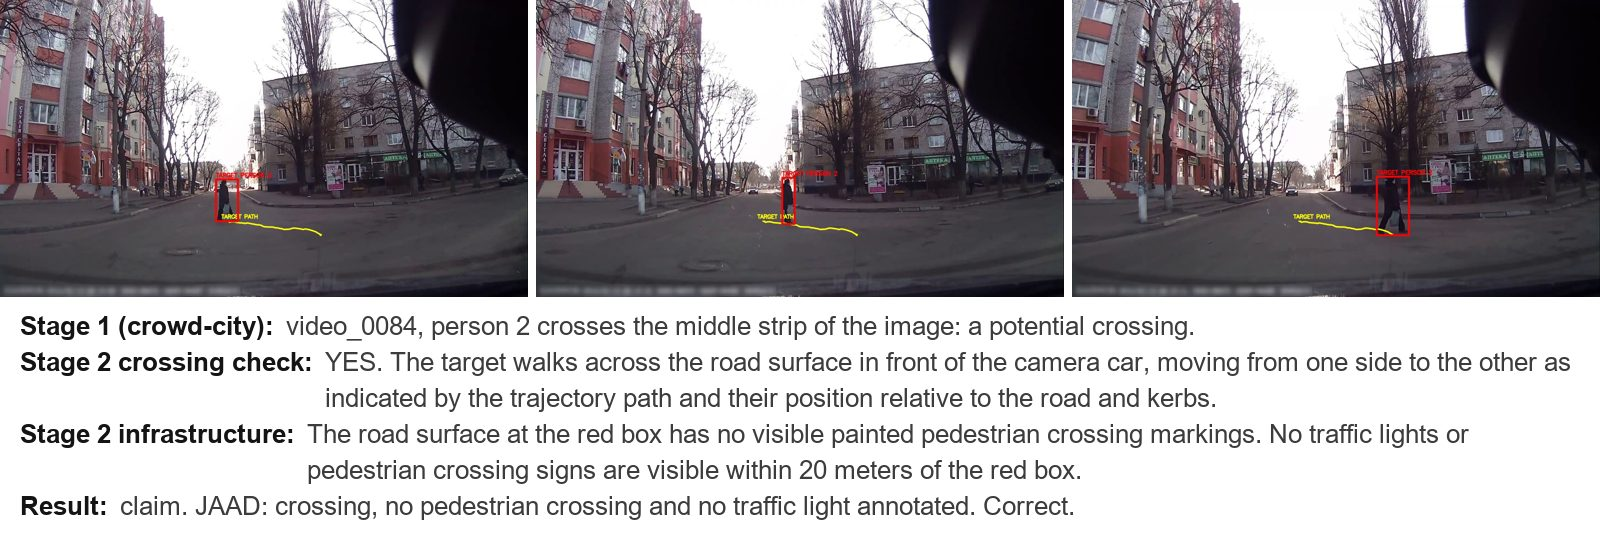
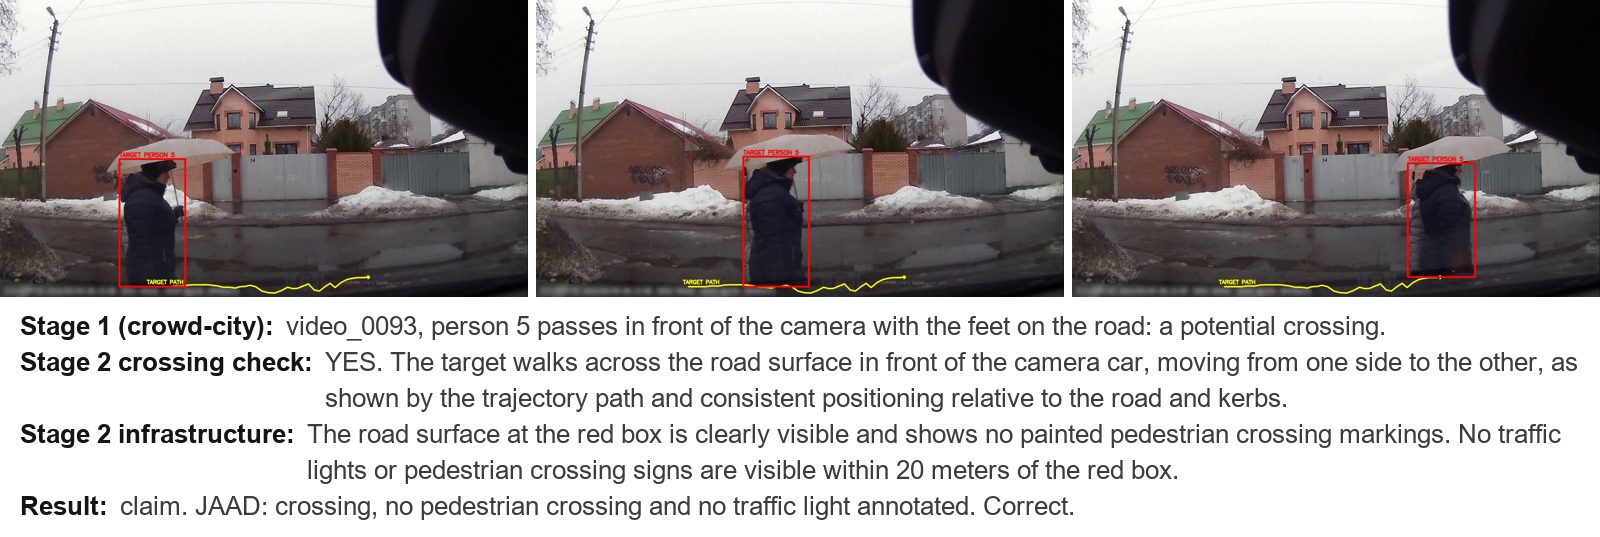
Document stage 1 as crowd-city's decision, add its JAAD evaluation and figures
Add scripts/crossing/evaluate_crowd_city_crossing.py (stage 1 alone against JAAD,
no VLM: precision 96.7%, recall 31.2%), record why road_crossing rejects a track,
add the stage 1 example and chart figures, and replace the claim and rejected
examples with ones the current stage 1 still proposes. README rewritten for the
new stage 1.

diff --git a/scripts/docs/make_readme_figures.py b/scripts/docs/make_readme_figures.py
@@ -142,13 +142,13 @@ def save(image: Image.Image, name: str) -> None:
 
 
 def claim_figure(run: Path) -> None:
-    split, video, person = "test", "video_0084", 2
+    split, video, person = "test", "video_0093", 5
     folder = evidence_folder(run, split, video, person)
     check, person_decision = decision(run, split, video, person)
     save(stack([
         trajectory_strip(folder),
         caption_block([
-            ("Stage 1 (crowd-city):", f"{video}, person {person} crosses the middle strip of the image: a potential crossing."),
+            ("Stage 1 (crowd-city):", f"{video}, person {person} passes in front of the camera with the feet on the road: a potential crossing."),
             ("Stage 2 crossing check:", f"{check['answer']}. {check['evidence_summary']}"),
             ("Stage 2 infrastructure:", person_decision["context"]["evidence_summary"]),
             ("Result:", "claim. JAAD: crossing, no pedestrian crossing and no traffic light annotated. Correct."),
@@ -181,14 +181,14 @@ def views_figure(run: Path) -> None:
 
 
 def rejected_figure(run: Path) -> None:
-    split, video, person = "test", "video_0110", 9
+    split, video, person = "test", "video_0150", 25
     check, _ = decision(run, split, video, person)
     save(stack([
         trajectory_strip(evidence_folder(run, split, video, person)),
         caption_block([
-            ("Stage 1 (crowd-city):", f"{video}, person {person} moves across the image: a potential crossing."),
+            ("Stage 1 (crowd-city):", f"{video}, person {person} passes in front of the camera: a potential crossing."),
             ("Stage 2 crossing check:", f"{check['answer']}. {check['evidence_summary']}"),
-            ("Result:", "no claim. JAAD: not crossing."),
+            ("Result:", "no claim. JAAD: a bystander, not crossing."),
         ], WIDTH),
     ]), "rejected_example.jpg")
 
@@ -233,6 +233,87 @@ def funnel_figure() -> None:
     logger.info("Saved {}", OUTPUT / "evaluation_funnel.png")
 
 
+def stage1_chart() -> None:
+    """Precision and recall of crowd-city's crossing decision alone, from the saved evaluation."""
+
+    summary = json.loads((ProjectConfig.load().path("results") / "crowd_city_stage1" / "summary.json").read_text(encoding="utf-8"))
+    rules = [("road_crossing", "road_crossing (default)", "#2a9d5c"), ("detector", "detector (older, box only)", "#7d9cc8")]
+    metrics = [("precision", "Precision\n(accepted tracks that cross)"), ("recall", "Recall\n(all JAAD crossers)"),
+               ("eligible_recall", "Recall\n(crossers with no zebra, no light)")]
+    fig, ax = plt.subplots(figsize=(9, 3.8), dpi=150)
+    width = 0.36
+    for offset, (key, label, colour) in enumerate(rules):
+        values = [100 * summary[key][metric] for metric, _ in metrics]
+        bars = ax.bar([i + (offset - 0.5) * width for i in range(len(metrics))], values, width, color=colour, label=label)
+        for bar, value in zip(bars, values):
+            ax.text(bar.get_x() + bar.get_width() / 2, value + 1.5, f"{value:.1f}%", ha="center", fontsize=9)
+    ax.set_xticks(range(len(metrics)), [label for _, label in metrics], fontsize=9)
+    ax.set_ylim(0, 112)
+    ax.set_ylabel("%")
+    ax.set_title(f"crowd-city's crossing decision on JAAD ({summary['videos']} videos, no VLM)", fontsize=11)
+    ax.legend(frameon=False, fontsize=9, loc="upper right", bbox_to_anchor=(1.0, 0.92))
+    for side in ("top", "right"):
+        ax.spines[side].set_visible(False)
+    fig.tight_layout()
+    OUTPUT.mkdir(parents=True, exist_ok=True)
+    fig.savefig(OUTPUT / "stage1_crowd_city.png")
+    logger.info("Saved {}", OUTPUT / "stage1_crowd_city.png")
+
+
+def stage1_example_figure() -> None:
+    """One track the road_crossing rule accepts and one it rejects, over SegFormer's road mask."""
+
+    import cv2
+    import numpy as np
+
+    from scripts.core.tracking import load_observations_csv
+    from scripts.crossing.crowd_city_road_rule import CrowdCityRoadCrossingDetector
+    from scripts.jaad.jaad_person_audit import JAADPersonAudit
+
+    config = ProjectConfig.load()
+    video = "video_0053"
+    audit = JAADPersonAudit(config, "test")
+    detector = CrowdCityRoadCrossingDetector(config.crowd_city_settings())
+    clip = audit.dataset.clip_path(video)
+    observations = load_observations_csv(audit.tracks_dir / f"{video}.csv")
+    result = detector.detect(observations, 30.0, clip)
+    reasons = {c.person_id: (c.track_features or {}).get("rejection") for c in result.classifications}
+    joined = detector._joined([o for o in observations if o.confidence >= 0.7], 30.0)
+    segmenter = detector.reader._segmenter()
+    capture = cv2.VideoCapture(str(clip))
+
+    def panel(event, accepted: bool) -> Image.Image:
+        frame_index = (event.transition_start_frame + event.transition_end_frame) // 2
+        capture.set(cv2.CAP_PROP_POS_FRAMES, frame_index)
+        ok, image = capture.read()
+        if not ok:
+            raise RuntimeError(f"Cannot read frame {frame_index} of {clip}")
+        small = cv2.cvtColor(cv2.resize(image, (segmenter.input_width, segmenter.input_height), interpolation=cv2.INTER_AREA), cv2.COLOR_BGR2RGB)
+        labels, _ = segmenter.segment(small[None])
+        road = cv2.resize((labels[0] == 0).astype(np.uint8), (image.shape[1], image.shape[0]), interpolation=cv2.INTER_NEAREST) > 0
+        shaded = image.copy()
+        shaded[road] = (0.62 * shaded[road] + 0.38 * np.array([255, 120, 40])).astype(np.uint8)
+        box = next(o.box for o in joined if o.track_id == event.person_id and o.frame_index == frame_index and o.class_id == 0)
+        colour = (60, 170, 40) if accepted else (40, 40, 220)
+        height, width = image.shape[:2]
+        cv2.rectangle(shaded, (int(box.x1 * width), int(box.y1 * height)), (int(box.x2 * width), int(box.y2 * height)), colour, 5)
+        return Image.fromarray(cv2.cvtColor(shaded, cv2.COLOR_BGR2RGB))
+
+    accepted = result.valid_events[0]
+    rejected = next(e for e in result.rejected_events if reasons.get(e.person_id))
+    left = labelled(panel(accepted, True), f"accepted: person {accepted.person_id}")
+    right = labelled(panel(rejected, False), f"rejected: person {rejected.person_id}")
+    capture.release()
+    save(stack([
+        row_same_height([left, right], WIDTH),
+        caption_block([
+            ("Road (blue):", "SegFormer's road surface, read under the feet at sampled frames."),
+            ("Accepted:", f"{video}, person {accepted.person_id} passes in front of the camera with the feet on the road at a walking pace."),
+            ("Rejected:", f"{video}, person {rejected.person_id} passes the box rules but is dropped: {reasons[rejected.person_id]}."),
+        ], WIDTH),
+    ]), "stage1_example.jpg")
+
+
 def main() -> None:
     run = ProjectConfig.load().path("results")
     claim_figure(run)
@@ -240,6 +321,8 @@ def main() -> None:
     rejected_figure(run)
     infrastructure_figure(run)
     funnel_figure()
+    stage1_chart()
+    stage1_example_figure()
 
 
 if __name__ == "__main__":

diff --git a/scripts/crossing/evaluate_crowd_city_crossing.py b/scripts/crossing/evaluate_crowd_city_crossing.py
@@ -1,0 +1,100 @@
+"""Score crowd-city's crossing decision (stage 1 alone, no VLM) against JAAD's labels.
+
+For every JAAD video of the three splits, both crowd-city rules are run on the saved YOLO11x
+tracks: ``road_crossing`` (the default, needs the clip for SegFormer) and ``detector`` (the
+older box-only rule). Each accepted track is matched to a JAAD pedestrian by box overlap:
+
+* precision: the share of accepted tracks whose pedestrian JAAD labels as crossing (tracks
+  that match a bystander without a behaviour label or no pedestrian count as wrong);
+* recall: the share of JAAD crossers that an accepted track matches, and the same for the
+  crossers with no zebra crossing and no traffic light on their crossing frames.
+
+    uv run python -u .\scripts\crossing\evaluate_crowd_city_crossing.py
+
+The output is ``<results>/crowd_city_stage1/summary.json``.
+"""
+
+from __future__ import annotations
+
+import json
+from collections import defaultdict
+
+import common
+from custom_logger import CustomLogger
+from logmod import logs
+from scripts.core.config import ProjectConfig
+from scripts.core.tracking import load_observations_csv
+from scripts.crossing.crowd_city_crossing import MIN_CONFIDENCE, CrowdCityCrossingDetector
+from scripts.crossing.crowd_city_road_rule import CrowdCityRoadCrossingDetector
+from scripts.jaad.jaad_person_audit import JAADPersonAudit, eligible_crossers, match_pedestrian
+
+logs(show_level=common.get_configs("logger_level"), show_color=True)
+logger = CustomLogger(__name__)  # use custom logger
+
+
+def main() -> None:
+    config = ProjectConfig.load()
+    rules = {
+        "road_crossing": CrowdCityRoadCrossingDetector(config.crowd_city_settings()),
+        "detector": CrowdCityCrossingDetector(),
+    }
+    stats: dict[str, dict[str, int]] = {name: defaultdict(int) for name in rules}
+    videos = 0
+    for split in ("train", "val", "test"):
+        audit = JAADPersonAudit(config, split)
+        for path in sorted(audit.tracks_dir.glob("*.csv")):
+            video_id = path.stem
+            if video_id in audit.excluded:
+                continue
+            videos += 1
+            annotations = audit.dataset.load_video(video_id)
+            observations = load_observations_csv(path)
+            crossers = [p for p in annotations.behaviour_tracks if p.is_crossing]
+            eligible = {p.pedestrian_id for p in eligible_crossers(annotations)}
+            for name, detector in rules.items():
+                if name == "road_crossing":
+                    result = detector.detect(observations, 30.0, audit.dataset.clip_path(video_id))
+                else:
+                    result = detector.detect(observations, 30.0)
+                joined = detector._joined([o for o in observations if o.confidence >= MIN_CONFIDENCE], 30.0)
+                boxes: dict[int, dict] = defaultdict(dict)
+                for item in joined:
+                    if item.class_id == 0:
+                        boxes[item.track_id][item.frame_index] = item.box
+                counts, found = stats[name], set()
+                for event in result.valid_events:
+                    track = {f: b for f, b in boxes[event.person_id].items() if event.start_frame <= f <= event.end_frame}
+                    pedestrian = match_pedestrian(annotations, track, audit.iou, audit.minimum_frames)
+                    counts["accepted"] += 1
+                    if pedestrian is None:
+                        counts["unmatched"] += 1
+                    elif not pedestrian.behaviour_annotated:
+                        counts["bystander"] += 1
+                    elif not pedestrian.is_crossing:
+                        counts["not_crossing"] += 1
+                    else:
+                        counts["crossing"] += 1
+                        found.add(pedestrian.pedestrian_id)
+                counts["jaad_crossers"] += len(crossers)
+                counts["jaad_eligible"] += len(eligible)
+                counts["crossers_found"] += len(found)
+                counts["eligible_found"] += len(found & eligible)
+            logger.info("{} ({} videos): {}", video_id, videos, {k: dict(v) for k, v in stats.items()})
+
+    summary = {"videos": videos}
+    for name, counts in stats.items():
+        counts = dict(counts)
+        summary[name] = {
+            **counts,
+            "precision": counts.get("crossing", 0) / max(counts.get("accepted", 0), 1),
+            "recall": counts.get("crossers_found", 0) / max(counts.get("jaad_crossers", 0), 1),
+            "eligible_recall": counts.get("eligible_found", 0) / max(counts.get("jaad_eligible", 0), 1),
+        }
+    output = config.path("results") / "crowd_city_stage1"
+    output.mkdir(parents=True, exist_ok=True)
+    (output / "summary.json").write_text(json.dumps(summary, indent=1), encoding="utf-8")
+    logger.info("Saved: {}", output / "summary.json")
+
+
+if __name__ == "__main__":
+    main()

diff --git a/scripts/crossing/crowd_city_road_rule.py b/scripts/crossing/crowd_city_road_rule.py
@@ -351,6 +351,7 @@ class CrowdCityRoadCrossingDetector(CrowdCityCrossingDetector):
             intervals = rule.road_intervals_for_tracks(timelines)
             rates = {str(key): value for key, value in size_rates.items()}
             selected: set[int] = set()
+            reasons: dict[int, str] = {}
             for track_id in ids:
                 track = tracks.get(str(track_id))
                 if track is None:
@@ -360,19 +361,24 @@ class CrowdCityRoadCrossingDetector(CrowdCityCrossingDetector):
                     surfaces=[sample.surface for sample in timelines.get(str(track_id)) or []],
                     fps=fps, aspect_ratio=aspect_ratio, camera_strip=camera_strip,
                 )
+                key = int(float(track_id))
                 if not flags["road_crossing"]:
+                    reasons[key] = "feet not on the road, or not walking at a plausible pace"
                     continue
                 ordered = track.sort("frame-count")
                 frames = ordered.get_column("frame-count")
                 shift = self.reader.camera_shift(clip, fps, float(frames.min()), float(frames.max()))
                 if shift is None:
+                    reasons[key] = "camera motion could not be read"
                     continue
                 if rule.swept_by_turning_camera(ordered.get_column("x-center").to_list(), shift):
+                    reasons[key] = "carried across the picture by the turning camera"
                     continue
                 window = df.filter(frame_column.is_between(frames.min(), frames.max()))
                 if rule.unverifiable_crossing(track, window, track_id, fps, shift, flags.get("walking_speed_mps")):
+                    reasons[key] = "cannot be verified against a static background"
                     continue
-                selected.add(int(float(track_id)))
+                selected.add(key)
         finally:
             clip.close()
 
@@ -403,6 +409,7 @@ class CrowdCityRoadCrossingDetector(CrowdCityCrossingDetector):
                         "segment_end_frame": track_rows[-1].frame_index,
                         "x_range": event.features.x_range,
                         "road_frames": event.features.road_frames,
+                        "rejection": reasons.get(track_id),
                     },
                 )
             )

diff --git a/README.md b/README.md
@@ -27,7 +27,7 @@ The target is the [CROWD dataset](https://github.com/crowd-dataset/crowd): about
 ```mermaid
 flowchart LR
     V[Dashcam video] --> T[YOLO11x + BoT-SORT<br/>person tracks]
-    T --> S1[Stage 1<br/>crowd-city crossing detector<br/>potential crossings]
+    T --> S1[Stage 1<br/>crowd-city crossing decision<br/>potential crossings]
     S1 --> E[Evidence images<br/>around each crossing]
     E --> C{Stage 2a VLM<br/>crosses the car's road<br/>in front of the car?}
     C -- no --> X1[dropped]
@@ -40,11 +40,23 @@ flowchart LR
 
 Each stage answers one question, and a claim needs every stage to agree. Any doubt means no claim.
 
-1. **Stage 1: potential crossings, from bounding boxes only.** YOLO11x detects people and BoT-SORT (`configs/botsort.yaml`, identical to crowd-city's tracker) follows them. The crossing detector of [crowd-city](https://github.com/crowd-dataset/crowd-city) (`crowd_city_detection.py`, an unchanged copy) proposes a person as a potential crossing when their track passes from one side of a narrow strip in the middle of the image to the other and survives its motion, rider, and camera motion filters. Before the detector runs, crowd-city's track joining (`crowd_city_track_joining.py`, an unchanged copy of crowd-city's `track_joining.py` at commit 340875e) repairs broken tracks: a pedestrian walking sideways who is lost for up to 4 s behind a vehicle and returns under a new id gets one id again, so a crossing split in two pieces is judged as one. On the 323 JAAD videos (saved YOLO11x tracks) joining changes 17 videos, and the accepted tracks go from 232 to 236; without joining the output was identical to crowd-city's earlier detector on all 323 videos. By default stage 1 now applies crowd-city's `road_crossing` rule (`crowd_city_crossing_rule`), its default decision for what counts as a crossing: the box candidates must pass in front of the camera or emerge there, must not be riders or move only with the camera, must keep their feet on the road according to SegFormer (`crowd_city_road_rule.py`, with `crowd_city_road_crossing.py` copied from crowd-city), must walk at a plausible pace, and must not be carried across the picture by a turning camera. Stage 1 is therefore crowd-city's own crossing decision, with nothing added. Scored alone against JAAD's labels on 309 videos (no VLM), it accepts 152 tracks, 147 of them a pedestrian JAAD marks as crossing: precision 96.7% (98.7% if the 3 unverifiable bystanders are left out), and it finds 144 of the 462 JAAD crossers (recall 31.2%), 25 of the 111 crossers with no zebra crossing and no traffic light. The earlier box-only detector with joining accepts 217 tracks (precision 94.0%) and finds 204 of 462 (44.2%), 40 of the 111. 14 of the 23 correct claims below are still proposed, so `road_crossing` trades recall for precision. Set `crowd_city_crossing_rule` to `"detector"` for the earlier box-only decision. Only these snippets go further: the VLM never sees the full footage.
+1. **Stage 1: potential crossings, exactly crowd-city's crossing decision.** YOLO11x detects people and BoT-SORT (`configs/botsort.yaml`, identical to crowd-city's tracker) follows them. Then the decision of [crowd-city](https://github.com/crowd-dataset/crowd-city) (its default `crossing_rule: road_crossing`, copied at commit 340875e, with nothing added) proposes the people who walk across the road in front of the camera:
+   * **Track joining:** a pedestrian walking sideways who is lost for up to 4 s behind a vehicle and returns under a new id gets one id again (`crowd_city_track_joining.py`).
+   * **Box candidates:** the track passes in front of the camera (through the middle strip) or steps out there, moves sideways far enough, and changes size slowly. Riders and tracks that only move with the camera are dropped (`crowd_city_detection.py`).
+   * **Feet on the road:** SegFormer reads the surface under the feet at sampled frames (1 Hz, 4 Hz where the track enters and leaves the road), and the person must walk at a plausible pace (`crowd_city_road_crossing.py`, applied to a clip by `crowd_city_road_rule.py`).
+   * **The picture itself:** a person carried across the image by a turning camera, or a fast mover that cannot be verified, is dropped.
+
+   ![Stage 1: one track accepted and one rejected](docs/images/stage1_example.jpg)
+
+   Scored alone against JAAD's labels on 309 videos (no VLM; `scripts/crossing/evaluate_crowd_city_crossing.py`), it accepts 152 tracks, 147 of them a pedestrian JAAD marks as crossing: precision 96.7% (98.7% if the 3 unverifiable bystanders are left out). It finds 144 of the 462 JAAD crossers (recall 31.2%), and 25 of the 111 crossers with no zebra crossing and no traffic light.
+
+   ![crowd-city's crossing decision on JAAD](docs/images/stage1_crowd_city.png)
+
+   crowd-city's older box-only detector (`crowd_city_crossing_rule: "detector"`, also with joining) accepts 217 tracks (precision 94.0%) and finds 204 of 462 (44.2%), 40 of the 111, so `road_crossing` trades recall for precision. 14 of the 23 correct claims in the results below are still proposed. Only these snippets go further: the VLM never sees the full footage.
 2. **Stage 2: the VLM checks the snippet** (Qwen3-VL-8B-Instruct).
    * **Crossing check** (prompt `v3`): does the person walk across the road the camera car is driving on, in front of the car? Crossing a side street or another road is not of interest. Only a clear YES continues.
    * **Infrastructure check** (prompt `zebra_light_v5`): is there a zebra crossing, a traffic light, or a pedestrian crossing sign? This prompt never judges the person. A fixed policy then requires every infrastructure answer to be NO, for this person and for every other crossing person in the clip.
-3. **Stage 3: the law.** Whether such a crossing is jaywalking depends on the country. A separate step (`scripts/law/run_jaywalking_law.py`) retrieves the rule set of the video's country from `Global_Jaywalking_Laws.pdf` (51 countries), asks the VLM YES, NO, or UNKNOWN on each numbered condition (plus any hand-added `supplementary` condition of that country, see [Limitations](#limitations)), and computes the label from the rule set's decision rule. The model never chooses the label.
+3. **Stage 3: the law.** Whether such a crossing is jaywalking depends on the country. A separate step (`scripts/law/run_jaywalking_law.py`) retrieves the rule set of the video's country from `Global_Jaywalking_Laws.pdf` (51 countries, plus a hand-written Bangladesh set), asks the VLM YES, NO, or UNKNOWN on each numbered condition (plus any hand-added `supplementary` condition of that country, see [Limitations](#limitations)), and computes the label from the rule set's decision rule. The model never chooses the label.
 
 After a run, an optional **approach review** (`scripts/review/run_approach_review.py`) looks at frames from a few seconds before each claimed crossing and flags a zebra crossing on the road ahead that the crossing window itself misses. It is a flag for a manual look, not a veto: nothing is dropped.
 
@@ -94,7 +106,7 @@ Claims that JAAD cannot settle were reviewed by hand and recorded in `data/claim
 
 ## Results
 
-The numbers below were measured with crowd-city's box-only detector (`crowd_city_crossing_rule: "detector"`, with track joining off). Stage 1 now defaults to crowd-city's `road_crossing` rule, whose crossing decision alone has precision 96.7% and recall 31.2% on JAAD (see How it works); it proposes 14 of the 23 correct claims, and the full pipeline has not been rerun with it yet.
+The numbers below were measured with crowd-city's box-only detector (`crowd_city_crossing_rule: "detector"`, with track joining off). Stage 1 now defaults to crowd-city's `road_crossing` rule, whose crossing decision alone has precision 96.7% and recall 31.2% on JAAD (see Stage 1 under How it works); it proposes 14 of the 23 correct claims, and the full pipeline has not been rerun with it yet.
 
 On all three JAAD splits (train, val, and test; 309 videos):
 
@@ -108,7 +120,7 @@ On all three JAAD splits (train, val, and test; 309 videos):
 | **All** | **23** | **23** (95% lower bound 87.8%) | **22 of 111 (20%)** |
 
 * 22 claims are confirmed by JAAD. The 23rd (`video_0092`) JAAD marks as "traffic light in view", but the light is far from where the person crosses; manual review: correct.
-* Most eligible crossers are lost in stage 1: the crowd-city detector, which only sees bounding boxes, proposes 40 of the 111. The VLM crossing check then rejects some real crossers as "walking along the pavement".
+* Most eligible crossers are lost in stage 1: the older box-only crowd-city detector proposed 40 of the 111 (the current `road_crossing` decision finds 25 of them, see Stage 1). The VLM crossing check then rejects some real crossers as "walking along the pavement".
 * The crossing check prompt (`v3`) was chosen after the test split had been inspected, so the test split is no longer a clean held-out set.
 * Stage 3 on the same 23 claims, applying three countries' rules: all `JAYWALKING` under Canada and Ukraine (crossing outside a designated crossing), all `NOT_JAYWALKING` under Australia (no crossing within 20 metres, so crossing there is lawful). JAAD has no per video country, so this checks that the rules are applied, not legal correctness.
 
@@ -152,6 +164,7 @@ Edit `config` for paths and runs. When `default.config` gains settings, add them
 | Track JAAD | `uv run python -u .\scripts\jaad\run_jaad_crossing_benchmark.py` | Once per `jaad_benchmark_split` (`train`, `val`, `test`); saves tracks to `jaad_benchmark_results` |
 | Stages 1 and 2 on JAAD, with the audit | `uv run python -u .\scripts\jaad\run_jaad_person_audit.py` | Split from `jaad_audit_split`; resumes after an interruption |
 | Stages 1 and 2 on CROWD | `uv run python -u .\scripts\crowd\run_crowd_analysis.py` | `crowd_max_segments` or `crowd_video_id` limit the run |
+| Stage 1 alone against JAAD | `uv run python -u .\scripts\crossing\evaluate_crowd_city_crossing.py` | No VLM. Writes `<results>/crowd_city_stage1/summary.json` (precision and recall of crowd-city's decision on all three splits) |
 | Stage 3 (law) | `uv run python .\scripts\law\run_jaywalking_law.py <results folder>` | CROWD takes the country from `mapping.csv`; for JAAD add `--country CAN` (repeatable) |
 | Approach review | `uv run python .\scripts\review\run_approach_review.py <results folder>` | After a run, before or after stage 3: flags claims with a zebra crossing on the road ahead in the seconds before the crossing, for a manual look. Changes nothing; see [Outputs](#outputs) |
 | One video | `uv run python .\scripts\evaluation\run_one_video.py` | Set `smoke_test_video` first |
@@ -259,7 +272,7 @@ Settings live in two places. Paths are relative to the repository root unless ab
 
 | Setting | Default | Meaning and allowed values |
 | --- | --- | --- |
-| `crossing_decision_mode` | `"crowd_city"` | How stage 1 decides crossings. `"crowd_city"`: crowd-city's detector (current method). `"classifier"`: the JAAD trained classifier and gate below. `"rules"`: this project's own rule detector (the corridor settings below) |
+| `crossing_decision_mode` | `"crowd_city"` | How stage 1 decides crossings. `"crowd_city"`: crowd-city's crossing decision (current method; `crowd_city_crossing_rule` below chooses the rule). `"classifier"`: the JAAD trained classifier and gate below. `"rules"`: this project's own rule detector (the corridor settings below) |
 | `crossing_vlm_check` | `true` | Ask the VLM whether each candidate really crosses; only a clear YES continues. `true` or `false` |
 | `crossing_vlm_check_version` | `"v3"` | Crossing check prompt. `"v1"`: crosses any carriageway. `"v2"`: whole-track wording. `"v3"`: crosses the camera car's road, in front of the car |
 | `crossing_rescue_min_first_stage` | `null` | Classifier mode only: also send first stage rejections with at least this probability to the VLM crossing check. Number 0 to 1, or `null` (off). Set together with `crossing_rescue_min_gate` |
@@ -487,7 +500,7 @@ The first stage classifier alone, on the official JAAD test split (YOLO26x): tra
 ├── mapping.csv                   # CROWD videos, segments, and locations
 ├── configs/
 │   ├── botsort.yaml              # tracker settings
-│   └── jaywalking_rules.json     # 51 country rule sets, from the PDF
+│   └── jaywalking_rules.json     # 52 country rule sets: 51 from the PDF, Bangladesh by hand
 ├── scripts/                      # all code, by topic: library modules and the scripts that run them
 │   ├── core/                     # method (fixed settings), config, models, pipeline (stages 1 and 2), policy, evidence, tracking, vlm (prompts)
 │   ├── crossing/
@@ -495,6 +508,7 @@ The first stage classifier alone, on the official JAAD test split (YOLO26x): tra
 │   │   ├── crowd_city_track_joining.py   # crowd-city's track joining (unchanged copy)
 │   │   ├── crowd_city_crossing.py        # joins tracks, then applies the detector (stage 1)
 │   │   ├── crowd_city_road_rule.py       # crowd-city's road_crossing rule on a clip (stage 1 default)
+│   │   ├── evaluate_crowd_city_crossing.py  # stage 1 alone against JAAD: precision and recall
 │   │   ├── crowd_city_road_crossing.py, crowd_city_track_metrics.py, crowd_city_surface.py,
 │   │   │   crowd_city_surface_constants.py, crowd_city_segformer.py, crowd_city_camera_shift.py   # copied from crowd-city
 │   │   ├── crossing.py, crossing_classifier.py, crossing_gate.py, model_crossing.py,
